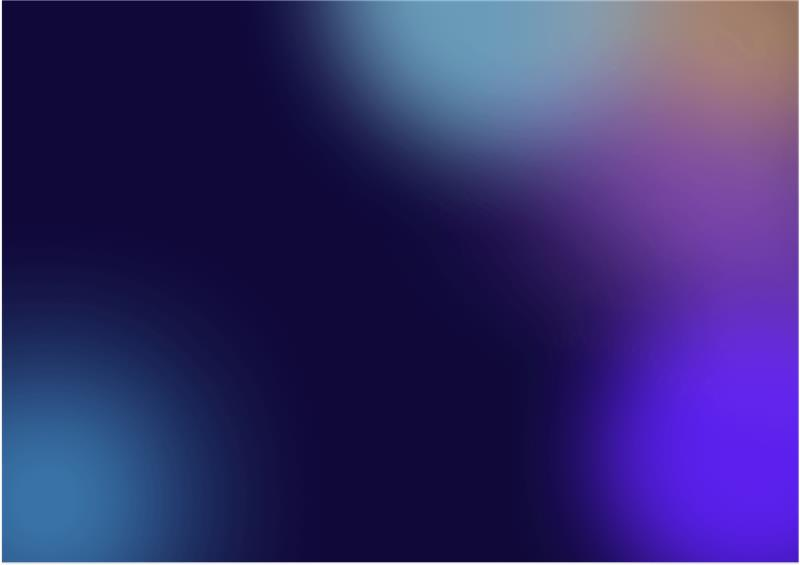
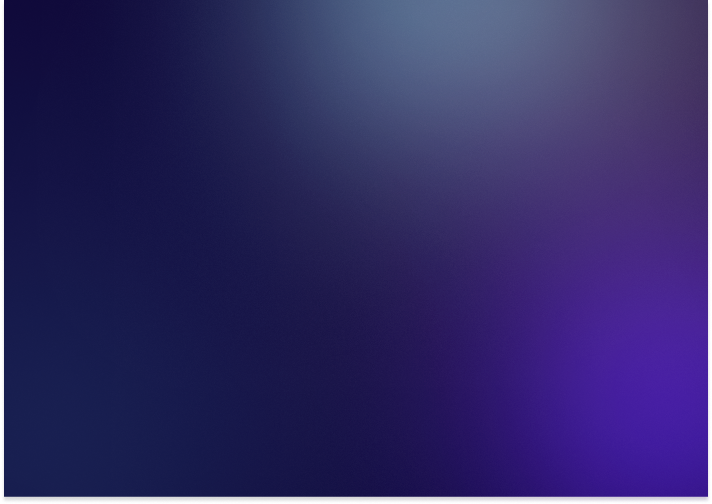
latest

diff --git a/assets/css/style.css b/assets/css/style.css
@@ -2,8 +2,9 @@ body {
 
     width: 100%;
     height: 100%;
-    background: url(../images/bg.png);
+    background: url(../images/bg.png) no-repeat;
     background-size: cover;
+    background-position: center;
     background-repeat: no-repeat;
     min-height: 100vh;
     padding: 20px;
